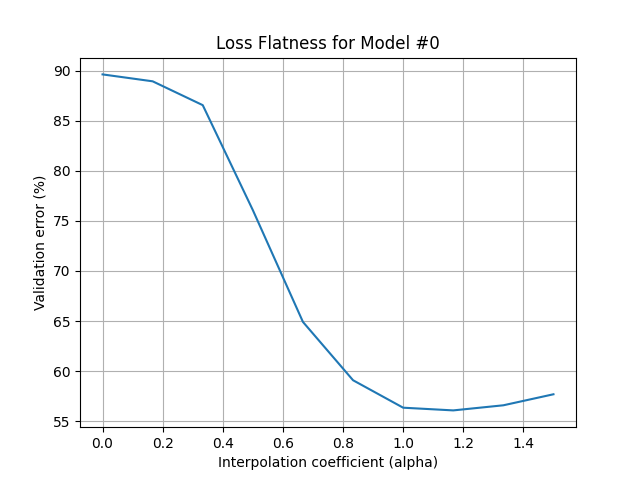
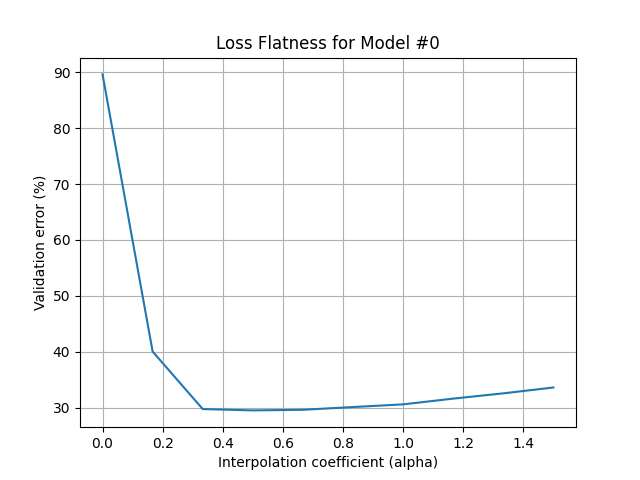
changed loaders and training loop, added terminal args for data

diff --git a/main.py b/main.py
@@ -1,11 +1,8 @@
+#!/usr/bin/env python3
+
 import torch
 from torch import optim
 from NeuralNetwork import NeuralNetwork
-from data_utils import (
-    get_fashion_mnist_loaders,
-    get_cifar100_loaders,
-    get_noisy_fashion_mnist_loaders,
-)
 import torch.nn.functional as F
 import os
 import matplotlib.pyplot as plt
@@ -151,24 +148,55 @@ if __name__ == "__main__":
         action="store_true",
         help="Use FractionalSGD instead of standard SGD",
     )
+    parser.add_argument(
+        "--data",
+        type=str,
+        choices=["fashion_mnist", "cifar10_grayscale", "cifar100_grayscale"],
+        default="fashion_mnist",
+        help="Dataset to use: fashion_mnist, cifar10_grayscale, or cifar100_grayscale",
+    )
     args = parser.parse_args()
+
     device = torch.device("cuda" if torch.cuda.is_available() else "cpu")
+
+    # Select dataset and configure dimensions
+    if args.data == "fashion_mnist":
+        from data_utils import get_fashion_mnist_loaders
+
+        get_loader_fn = get_fashion_mnist_loaders
+        image_size = 28 * 28
+        num_classes = 10
+
+    elif args.data == "cifar10_grayscale":
+        from data_utils import get_cifar10_loaders_grayscale
+
+        get_loader_fn = get_cifar10_loaders_grayscale
+        image_size = 32 * 32
+        num_classes = 10
+
+    elif args.data == "cifar100_grayscale":
+        from data_utils import get_cifar100_loaders_grayscale
+
+        get_loader_fn = get_cifar100_loaders_grayscale
+        image_size = 32 * 32
+        num_classes = 100
+
     for seed in range(3):
         if args.use_fractional:
             print(f"Training fractional model #{seed}")
         else:
             print(f"Training vanilla model #{seed}")
 
-        train_loader, test_loader = get_noisy_fashion_mnist_loaders(
-            data_dir=DATA_DIR, seed=seed
+        train_loader, test_loader = get_loader_fn(data_dir=DATA_DIR, seed=seed)
+
+        model = NeuralNetwork(input_dim=image_size, output_dim=num_classes).to(device)
+
+        flag = args.use_fractional
+        optimizer = (
+            FractionalSGD(model.parameters(), lr=0.01)
+            if args.use_fractional
+            else optim.SGD(model.parameters(), lr=0.01)
         )
-        model = NeuralNetwork().to(device)
-        flag = False
-        if args.use_fractional:
-            optimizer = FractionalSGD(model.parameters(), lr=0.01)
-            flag = True
-        else:
-            optimizer = optim.SGD(model.parameters(), lr=0.01)
 
         # Save initial parameters
         initial_params = {
@@ -198,3 +226,59 @@ if __name__ == "__main__":
 
         sharpness = compute_sharpness(model, nn.CrossEntropyLoss(), test_loader, device)
         print(f"Sharpness: {sharpness:.2f}%")
+
+
+# if __name__ == "__main__":
+#     parser = argparse.ArgumentParser()
+#     parser.add_argument(
+#         "--use-fractional",
+#         action="store_true",
+#         help="Use FractionalSGD instead of standard SGD",
+#     )
+#     args = parser.parse_args()
+#     device = torch.device("cuda" if torch.cuda.is_available() else "cpu")
+#     for seed in range(3):
+#         if args.use_fractional:
+#             print(f"Training fractional model #{seed}")
+#         else:
+#             print(f"Training vanilla model #{seed}")
+
+#         train_loader, test_loader = get_noisy_fashion_mnist_loaders(
+#             data_dir=DATA_DIR, seed=seed
+#         )
+#         model = NeuralNetwork().to(device)
+#         flag = False
+#         if args.use_fractional:
+#             optimizer = FractionalSGD(model.parameters(), lr=0.01)
+#             flag = True
+#         else:
+#             optimizer = optim.SGD(model.parameters(), lr=0.01)
+
+#         # Save initial parameters
+#         initial_params = {
+#             name: param.clone().detach() for name, param in model.named_parameters()
+#         }
+
+#         train(model, train_loader, optimizer, device)
+
+#         # Save final parameters
+#         final_params = {
+#             name: param.clone().detach() for name, param in model.named_parameters()
+#         }
+
+#         acc = test(model, test_loader, device)
+#         print(f"Model #{seed} test accuracy: {acc:.2f}%")
+
+#         # Plot flatness
+#         plot_flatness(
+#             model,
+#             test_loader,
+#             device,
+#             initial_params,
+#             final_params,
+#             model_id=seed,
+#             flag=flag,
+#         )
+
+#         sharpness = compute_sharpness(model, nn.CrossEntropyLoss(), test_loader, device)
+#         print(f"Sharpness: {sharpness:.2f}%")

diff --git a/data_utils.py b/data_utils.py
@@ -28,15 +28,44 @@ def get_fashion_mnist_loaders(data_dir="data/", batch_size=64, seed=42):
     return train_loader, test_loader
 
 
-def get_cifar100_loaders(data_dir="data/", batch_size=64, seed=42):
+def get_cifar10_loaders_grayscale(data_dir="data/", batch_size=64, seed=42):
     torch.manual_seed(seed)
 
     transform = transforms.Compose(
         [
+            transforms.Grayscale(num_output_channels=1),  # Convert to grayscale
             transforms.ToTensor(),
-            transforms.Normalize(
-                mean=[0.5071, 0.4867, 0.4408], std=[0.2675, 0.2565, 0.2761]
-            ),
+            transforms.Normalize(mean=[0.5], std=[0.5]),  # Normalize grayscale values
+        ]
+    )
+
+    os.makedirs(data_dir, exist_ok=True)
+
+    # Training dataset
+    train_dataset = datasets.CIFAR10(
+        root=data_dir, train=True, download=True, transform=transform
+    )
+
+    # Test dataset
+    test_dataset = datasets.CIFAR10(
+        root=data_dir, train=False, download=True, transform=transform
+    )
+
+    # Create data loaders
+    train_loader = DataLoader(train_dataset, batch_size=batch_size, shuffle=True)
+    test_loader = DataLoader(test_dataset, batch_size=batch_size, shuffle=False)
+
+    return train_loader, test_loader
+
+
+def get_cifar100_loaders_grayscale(data_dir="data/", batch_size=64, seed=42):
+    torch.manual_seed(seed)
+
+    transform = transforms.Compose(
+        [
+            transforms.Grayscale(num_output_channels=1),  # Convert to grayscale
+            transforms.ToTensor(),
+            transforms.Normalize(mean=[0.5], std=[0.5]),  # Normalize grayscale values
         ]
     )
 
@@ -54,52 +83,6 @@ def get_cifar100_loaders(data_dir="data/", batch_size=64, seed=42):
 
     # Create data loaders
     train_loader = DataLoader(train_dataset, batch_size=batch_size, shuffle=True)
-    test_loader = DataLoader(test_dataset, batch_size=batch_size, shuffle=False)
-
-    return train_loader, test_loader
-
-
-def get_noisy_fashion_mnist_loaders(
-    data_dir="data/", batch_size=64, seed=42, subset_ratio=0.1, noise_ratio=0.2
-):
-    torch.manual_seed(seed)
-    random.seed(seed)
-
-    transform = transforms.ToTensor()
-    os.makedirs(data_dir, exist_ok=True)
-
-    # Load full training dataset
-    full_train_dataset = datasets.FashionMNIST(
-        root=data_dir, train=True, download=True, transform=transform
-    )
-
-    # Subsample 10% of the data
-    num_total = len(full_train_dataset)
-    num_subset = int(subset_ratio * num_total)
-    subset_indices = random.sample(range(num_total), num_subset)
-    subset_dataset = Subset(full_train_dataset, subset_indices)
-
-    # Inject label noise into 20% of subset
-    noisy_targets = full_train_dataset.targets[subset_indices].clone()
-    num_noisy = int(noise_ratio * num_subset)
-    noisy_indices = random.sample(range(num_subset), num_noisy)
-    for idx in noisy_indices:
-        true_label = noisy_targets[idx].item()
-        new_label = random.choice([l for l in range(10) if l != true_label])
-        noisy_targets[idx] = new_label
-
-    # Manually override targets in subset
-    subset_dataset.dataset.targets = full_train_dataset.targets.clone()
-    for i, subset_idx in enumerate(subset_indices):
-        subset_dataset.dataset.targets[subset_idx] = noisy_targets[i]
-
-    # Test dataset (clean)
-    test_dataset = datasets.FashionMNIST(
-        root=data_dir, train=False, download=True, transform=transform
-    )
-
-    # Create data loaders
-    train_loader = DataLoader(subset_dataset, batch_size=batch_size, shuffle=True)
     test_loader = DataLoader(test_dataset, batch_size=batch_size, shuffle=False)
 
     return train_loader, test_loader
